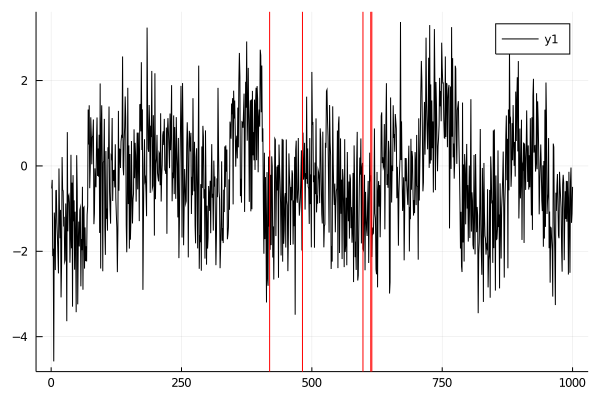
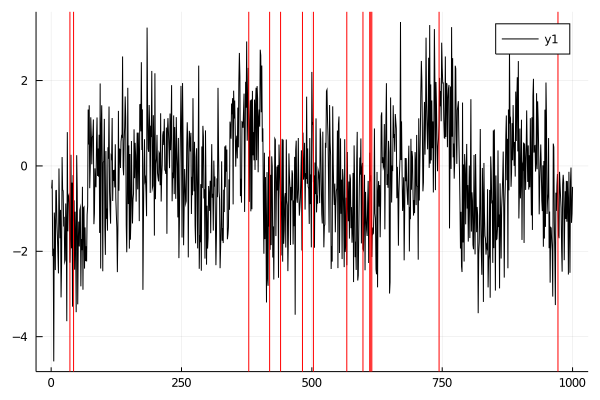
add WBS min_length argument, amend plots and README

diff --git a/README.md b/README.md
@@ -193,7 +193,7 @@ In the future we intend to incorporate the pruning procedure of [Cho and Kirch 2
 ## Segmentation with WBS and SeedBS
 
 The Wild Binary Segmentation (WBS) procedure generalises standard Binary Segmentation, drawing many random intervals instead of using only the entire interval (see [WBS](https://arxiv.org/abs/1411.0858)).
-Optionally, we can specify the threshold scaling constant, the standard deviation, and the number of intervals to draw. Specifying `M=1` will call the CUSUM-based BS procedure. We are returned an array of tuples containing change point information, in decreasing detection order; see `?WBS` for details. 
+Optionally, we can specify the threshold scaling constant, the standard deviation, the number of intervals to draw, and the minimum segment length. Specifying `M=1` will call the CUSUM-based BS procedure. We are returned an array of tuples containing change point information, in decreasing detection order; see `?WBS` for details.
 
 The following code runs the procedure, estimating the variance with MAD:
 ```
@@ -206,10 +206,10 @@ We call this with an optional argument:
 SeedBS_return = @WBS data do_seeded=true
 ```
 
-We can extract estimated change points from both objects by minimising the penalised strengthened Schwartz Information Criterion (sSIC) (see references). Using `Kmax` as an upper bound of the number to be returned, we call this via:
+We can extract estimated change points from both objects by minimising the penalised strengthened Schwartz Information Criterion (sSIC) (see references). Using `Kmax=14` as an upper bound of the number to be returned, we call this via:
 ```
 seg_cost_sSIC = sSIC(data)
-Kmax = 5
+Kmax = 14
 WBS_cps = get_WBS_changepoints(seg_cost_sSIC, WBS_return, Kmax)
 changepoint_plot(data, WBS_cps[1])
 ```
